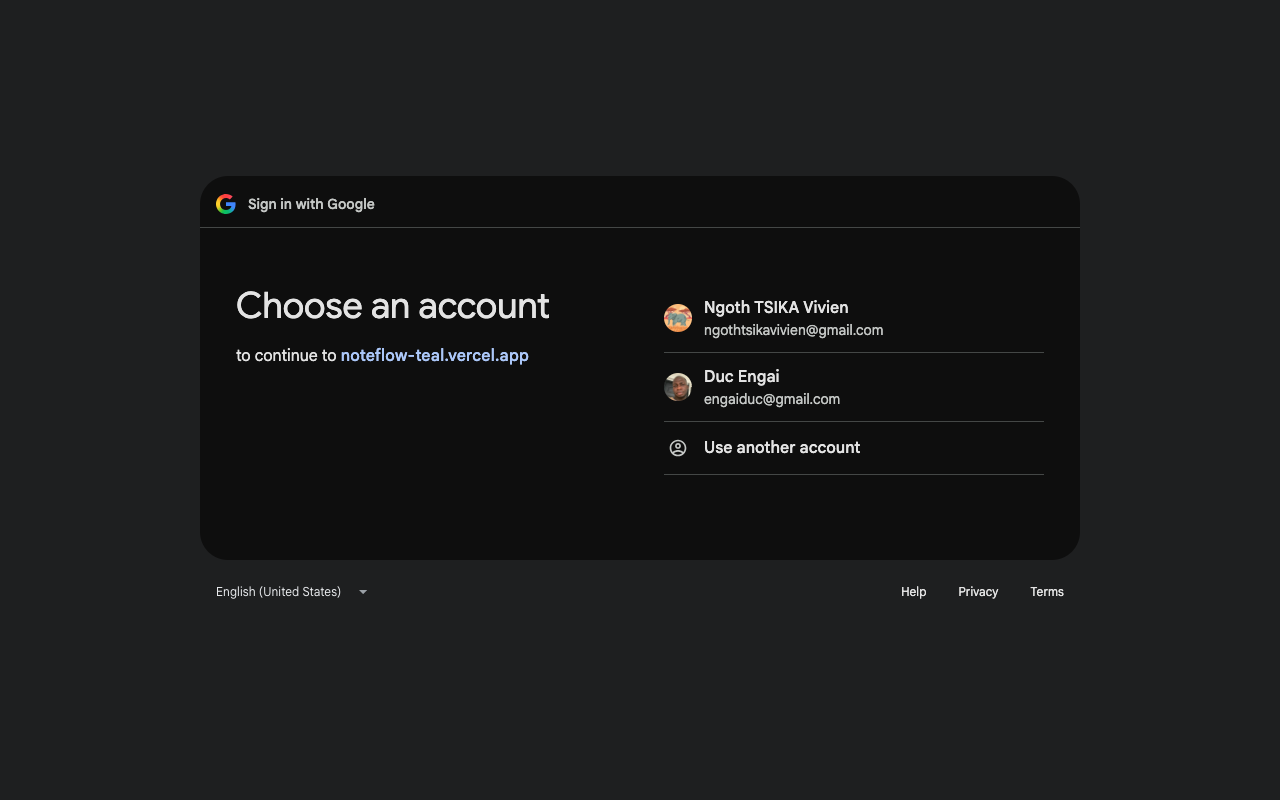
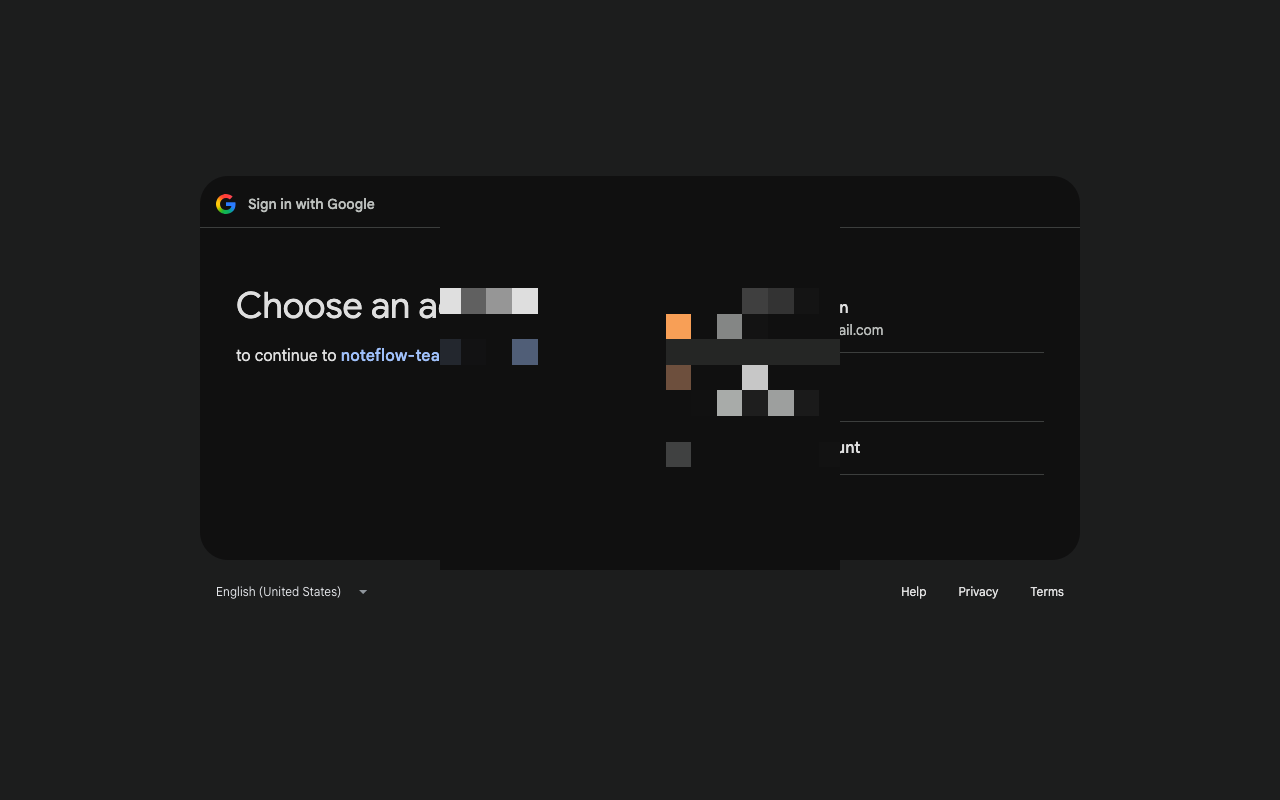
update 2

Changed region(s): [[0.5, 0.3438, 0.6562, 0.5938], [0.3438, 0.3438, 0.4375, 0.4688]]

diff --git a/README.md b/README.md
@@ -21,14 +21,20 @@ The most important library in this project is [@blocknote/react](https://www.npm
 
 ![Main workspace](public/projectUI/main-screen.png)
 
-### Key screens
+### Auth UI
 
 ![Auth screen](public/projectUI/auth%20page.png)
 ![Google auth](public/projectUI/google%20auth.png)
-![Dark and light mode](public/projectUI/dark%20&%20light%20mode%20setting.png)
-![Search menu](public/projectUI/search%20menu.png)
-![Supabase dashboard](public/projectUI/supabase.png)
+
+### Key screens
+
 ![Publish and share](public/projectUI/publish%20&%20share.png)
+![Search menu](public/projectUI/search%20menu.png)
+![Dark and light mode](public/projectUI/dark%20&%20light%20mode%20setting.png)
+
+### Database
+
+![Supabase dashboard](public/projectUI/supabase.png)
 ![Vercel deployment](public/projectUI/vercel.png)
 
 ## Getting started
